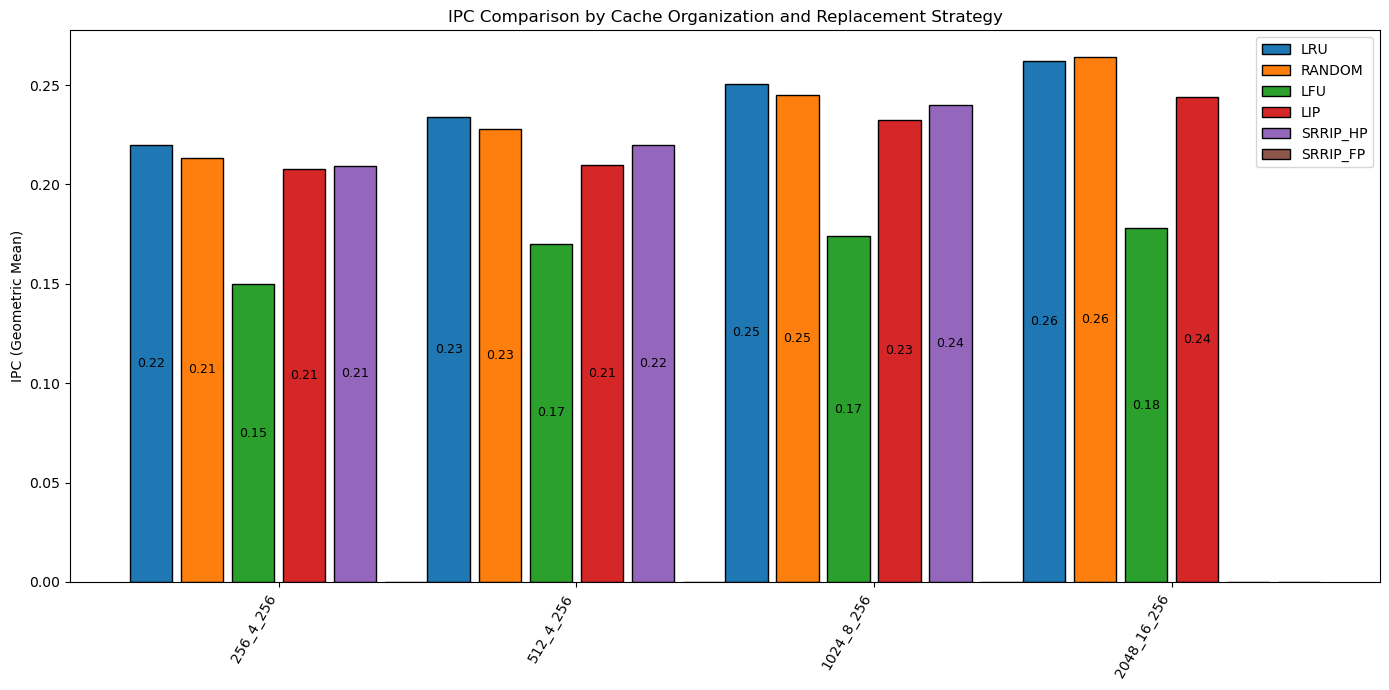
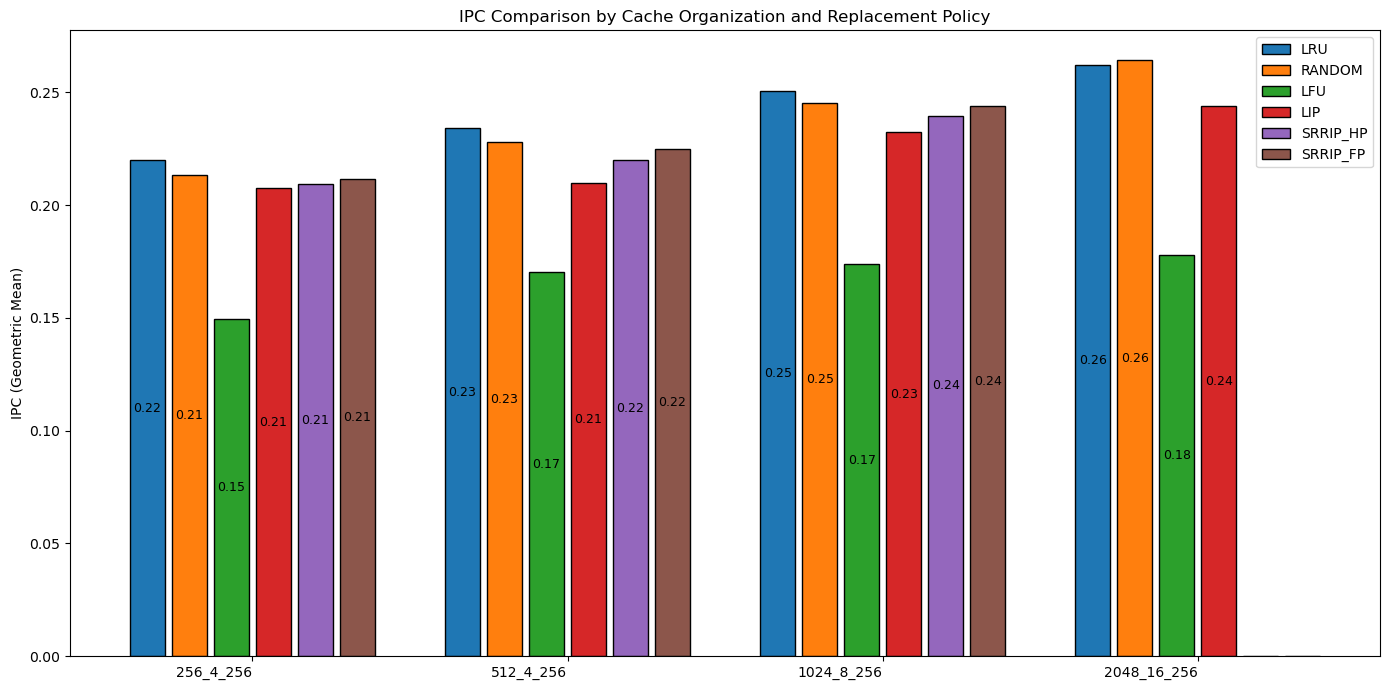
srrip

diff --git a/memory-hierarchy/plot/bar_plot_l2.py b/memory-hierarchy/plot/bar_plot_l2.py
@@ -85,7 +85,7 @@ for cache in caches:
     ipc_matrix.append(ipc_row)
 
 bar_width = 0.15
-group_spacing = bar_width * (num_caches + 1)
+group_spacing = bar_width * (num_caches + 3)
 x = np.arange(num_configs) * group_spacing
 offsets = np.linspace(-bar_width*num_caches/2, bar_width*num_caches/2, num_caches)
 
@@ -101,9 +101,9 @@ for i, cache in enumerate(caches):
             plt.text(bar.get_x() + bar.get_width() / 2, height / 2,
                      f"{height:.2f}", ha='center', va='center', fontsize=9)
 
-plt.xticks(x, sorted_configs, rotation=60, ha='right')
+plt.xticks(x, sorted_configs, ha='right')
 plt.ylabel("L2 MPKI (Geometric Mean)")
-plt.title("L2 MPKI Comparison by Cache Organization and Replacement Strategy ")
+plt.title("L2 MPKI Comparison by Cache Organization and Replacement Policy ")
 plt.legend()
 plt.tight_layout()
 plt.savefig(filename+'_mpki.png', bbox_inches='tight')
@@ -118,9 +118,9 @@ for i, cache in enumerate(caches):
             plt.text(bar.get_x() + bar.get_width() / 2, height / 2,
                      f"{height:.2f}", ha='center', va='center', fontsize=9)
 
-plt.xticks(x, sorted_configs, rotation=60, ha='right')
+plt.xticks(x, sorted_configs, ha='right')
 plt.ylabel("IPC (Geometric Mean)")
-plt.title("IPC Comparison by Cache Organization and Replacement Strategy")
+plt.title("IPC Comparison by Cache Organization and Replacement Policy")
 plt.legend()
 plt.tight_layout()
 plt.savefig(filename+'_ipc.png', bbox_inches='tight')
